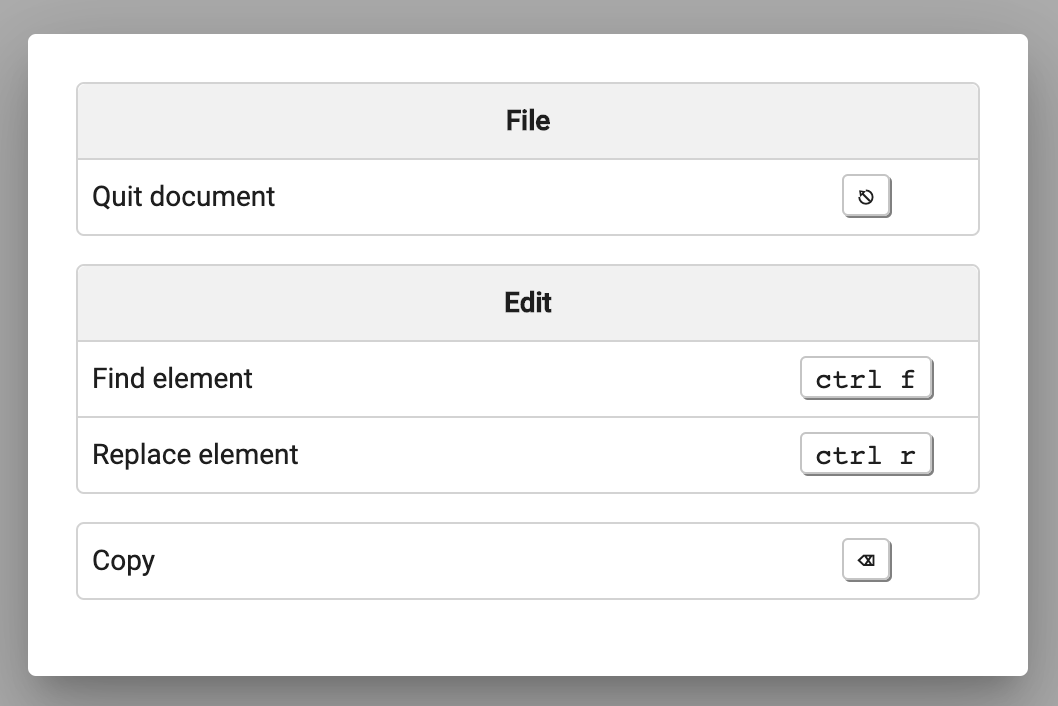
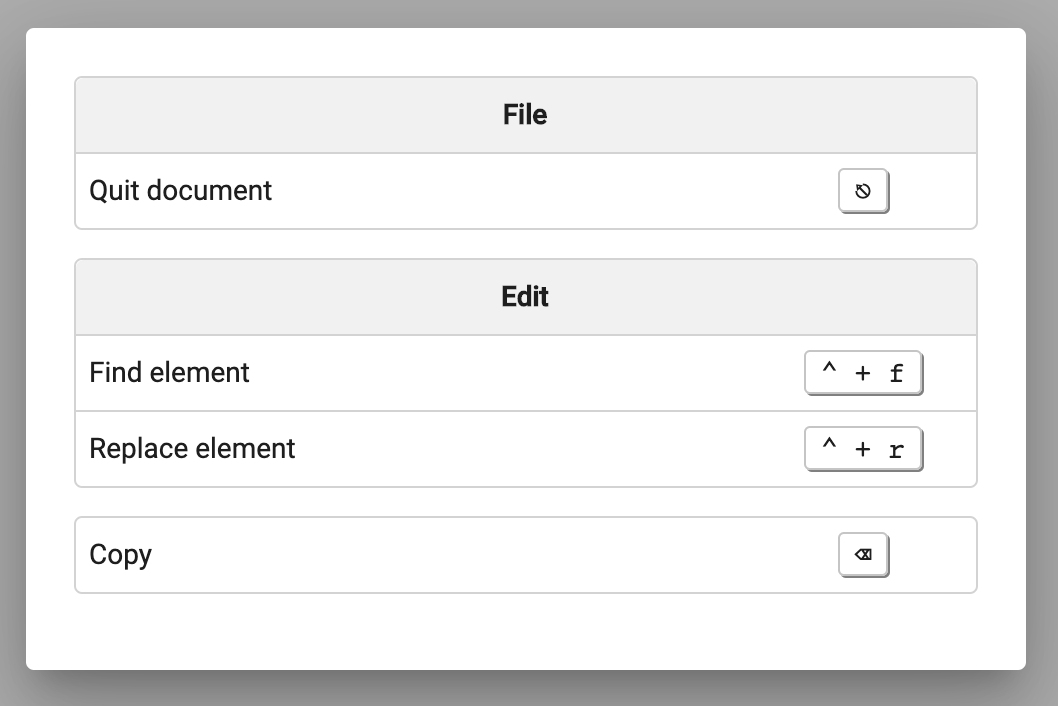
fixed playground and docs

diff --git a/src/app/app.component.ts b/src/app/app.component.ts
@@ -37,7 +37,7 @@ export class AppComponent implements AfterViewInit {
 
     this.hotkeys
       .addShortcut({
-        keys: 'ctrl.f',
+        keys: 'control.f',
         element: this.container.nativeElement,
         description: 'Find element',
         group: 'Edit'
@@ -46,7 +46,7 @@ export class AppComponent implements AfterViewInit {
 
     this.hotkeys
       .addShortcut({
-        keys: 'ctrl.r',
+        keys: 'control.r',
         element: this.container.nativeElement,
         description: 'Replace element',
         group: 'Edit'

diff --git a/README.md b/README.md
@@ -197,7 +197,7 @@ export class AppComponent implements AfterViewInit {
 
     this.hotkeys
       .addShortcut({
-        keys: 'ctrl.f',
+        keys: 'control.f',
         element: this.container.nativeElement,
         description: 'Find element',
         group: 'Edit'
@@ -206,7 +206,7 @@ export class AppComponent implements AfterViewInit {
 
     this.hotkeys
       .addShortcut({
-        keys: 'ctrl.r',
+        keys: 'control.r',
         element: this.container.nativeElement,
         description: 'Replace element',
         group: 'Edit'
